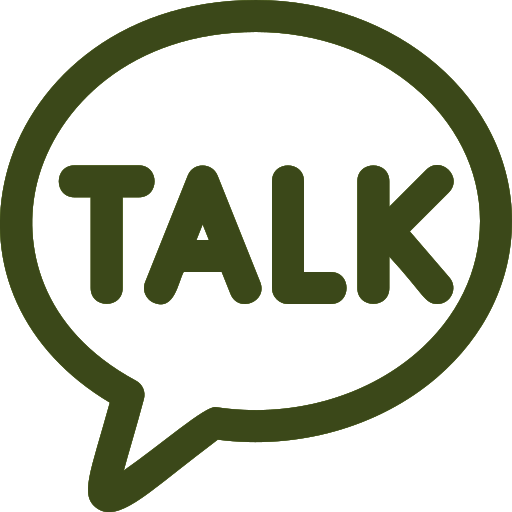
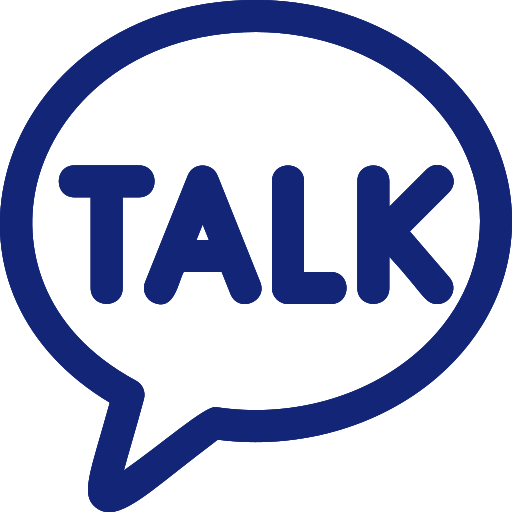
250212

diff --git a/intro.html b/intro.html
@@ -1,6 +1,7 @@
 <!doctype html>
 <html lang="ko">
 <head>
+    <link href="https://fonts.googleapis.com/css2?family=Material+Symbols+Outlined" rel="stylesheet" />
 	<title>온라인 프로필</title>
 	<meta charset="utf-8">
   <style>
@@ -42,7 +43,7 @@
         height: 55px;
         margin: 20px auto;
         text-align: center;
-        color: #c97035;
+        color: #3550c9;
         position: relative;
         transition: all 0.5s;
     }
@@ -60,7 +61,7 @@
     #detail {
         width: 100px;
         height: 50px;
-        color: #0732199c;
+        color: #122577;
         text-align: left;
         position: absolute;
         bottom: 10px;
@@ -73,23 +74,23 @@
     }
     #time {
         font-size: 25px;
-        color: rgb(46, 85, 14);
+        color: #122577;
         font-weight: bold;
         text-align: center;
     }
     #sns {
-        width: 100px;
+        width: 120px;
         height: 100px;
-        color: #5d5c17;
+        color: #122577;
         text-align: center;
         position: absolute;
         bottom: 130px;
-        left: 35px;
+        left: 25px;
         transition: all 0.2s;
     }
     #sns a {
         display: inline-block;
-        margin: 0 5px;
+        margin: 0 2px;
     }
     .opswitch {
         opacity: 0;
@@ -116,17 +117,17 @@
         position: absolute;
         right: 0;
         background: linear-gradient(to top, rgba(235, 255, 224, 0.675), rgb(255, 249, 240, 0.675));
-        color: rgb(104, 69, 29);
+        color: #122577;
     }
     section {
         margin: 30px;
         padding: 20px;
-        border-bottom: 2px dotted #df9930;
+        border-bottom: 2px dotted #ffc375;
     }
     .subtitle {
         margin: 20px;
-        color: #cf7b42;
-        text-shadow: 2px 1px 3px #7e4620;
+        color: #3550c9;
+        text-shadow: 2px 1px 3px #3550c9;
     }
     #frame {
         width: 500px;
@@ -176,8 +177,11 @@
                 <p>s.subin.0208@gmail.com</p>
             </div>
             <div id="sns" class="opswitch">
-                <h2>SNS</h2>
+                <h2>HOME</h2>
                 <h3>
+                    <a href="https://steamcommunity.com/id/aaaasss8979/games/?tab=all" target="_blank">
+                        <img src="media/steam.png" width="30" height="30">
+                    </a>
                     <a href="https://www.instagram.com/s.subin.spr/" target="_blank">
                         <img src="media/instagram.png" width="30" height="30">
                     </a>
@@ -248,7 +252,7 @@
                       <tr>
                           <td>꽤좋은고등학교</td>
                           <td>꽤좋은학과</td>
-                          <td>2010.3 ~ 2012.2</td>
+                          <td>2010.3 ~ 2013.2</td>
                           <td>졸업</td>
                       </tr>
                   </tbody>
